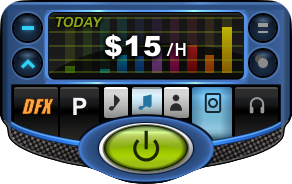
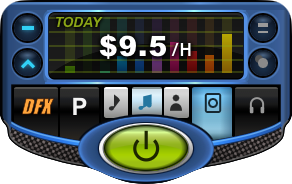
SPEND digits: always a raised $ above three sign-free cells
From $99.5 up the three-cell readout dropped its $ cell and read like a
count (158). The $ is now a small raised glyph above the SPEND digits,
the size of the Y labels' $, and cents read 0.03. Docs shots redone.

Changed region(s): [[0.339, 0.163, 0.6781, 0.3261], [0.7397, 0.1359, 0.8014, 0.1902], [0.339, 0.3533, 0.3699, 0.4076]]

diff --git a/src/dfx_agent_enhancer/ui/app.js b/src/dfx_agent_enhancer/ui/app.js
@@ -45,7 +45,7 @@
   };
   var DIG = {
     "0": "abcdef", "1": "bc", "2": "abdeg", "3": "abcdg", "4": "bcfg", "5": "acdfg", "6": "acdefg",
-    "7": "abc", "8": "abcdefg", "9": "abcdfg", "-": "g", " ": "", G: "acdef", $: "acdfg"
+    "7": "abc", "8": "abcdefg", "9": "abcdfg", "-": "g", " ": "", G: "acdef"
   };
   // letters the 7 segments cannot show, drawn as strokes in the same weight (designed on a 7 x 13 cell)
   var EXTRA = {
@@ -59,8 +59,6 @@
     var body = GHOST;
     if (EXTRA[ch]) body += '<g transform="scale(' + (W / 7).toFixed(4) + ' 1)">' + EXTRA[ch] + "</g>";
     else (DIG[ch] || "").split("").forEach(function (s) { body += '<polygon class="on" points="' + pts(SEG[s]) + '"/>'; });
-    // $: the S of the 7 segments with a stroke through it, reaching past the cell like a printed $
-    if (ch === "$") body += '<rect class="on" x="' + (W / 2 - 0.45).toFixed(2) + '" y="-1.1" width=".9" height="' + (H + 2.2) + '"/>';
     // a decimal point is a 1.9 px dot in a gap of its own (.drow svg.dp), so 6.6 never reads as 66
     if (dp) body += '<circle class="on" cx="' + (W + DPX) + '" cy="' + (H - 0.95) + '" r=".95"/>';
     return '<svg' + (dp ? ' class="dp"' : "") + ' viewBox="0 0 ' + W + " " + H + '">' + body + "</svg>";
@@ -86,14 +84,14 @@
     if (n < 1e8) return Math.floor(n / 1e6) + "M";
     return Math.min(9.9, Math.floor(n / 1e8) / 10).toFixed(1) + "G";     // a heavy week: 0.2G
   }
-  // dollars, also in three cells: $0, cents under a dollar ($.03, $.40: a little spend never shows
-  // as $0), $4.2, $42, then without the sign 420, 4.2k, 42k, 0.4M
+  // dollars in three cells, without a sign: the SPEND row draws a small raised $ above its digits
+  // (.drow small), like the $ on the Y labels, so 158 never reads as a count. 0, cents under a dollar
+  // (0.03, 0.40: a little spend never shows as 0), 4.2, 42, 420, 4.2k, 42k, 0.4M
   function fmtUsd(n) {
     if (n === null || n === undefined) return "--";
-    if (n === 0) return "$0";
-    if (n < 0.995) return "$." + ("0" + Math.max(1, Math.round(n * 100))).slice(-2);
-    if (n < 9.95) return "$" + n.toFixed(1);
-    if (n < 99.5) return "$" + Math.round(n);
+    if (n === 0) return "0";
+    if (n < 0.995) return Math.max(0.01, n).toFixed(2);
+    if (n < 9.95) return n.toFixed(1);
     if (n < 999.5) return String(Math.round(n));
     if (n < 9950) return (n / 1000).toFixed(1) + "k";
     if (n < 99500) return Math.round(n / 1000) + "k";
@@ -254,7 +252,7 @@
     row.dataset.tip = r.tip || "";
     var d = $("digits").children[n], text = loading ? "--" : (r.id === "spend" ? fmtUsd : fmtCount)(r.value);   // not ready, not zero
     d.dataset.tip = r.tip || "";
-    if (d.dataset.v !== text) { d.dataset.v = text; d.innerHTML = digitRow(text); }
+    if (d.dataset.v !== text) { d.dataset.v = text; d.innerHTML = digitRow(text) + (r.id === "spend" ? "<small>$</small>" : ""); }
   }
   function renderToggles(t) {
     t = t || {};

diff --git a/src/dfx_agent_enhancer/ui/app.css b/src/dfx_agent_enhancer/ui/app.css
@@ -207,6 +207,8 @@ button { font: inherit; border: 0; background: none; color: inherit; cursor: def
 .drow svg.dp { margin-right: 1.9px; }   /* room for the decimal point: a 3.1 px gap instead of 1.2 */
 .drow .ghost { fill: #000; opacity: .085; }
 .drow .on { fill: #000; }
+/* the SPEND row's unit: a raised $ in the gap above its digits, the size of the Y labels' $ */
+.drow small { position: absolute; left: 1.2px; top: -8.6px; font: 700 7.5px/7px Arial, Helvetica, sans-serif; color: #000; letter-spacing: 0; }
 
 /* ---------------- right-hand keys ---------------- */
 .keys { position: absolute; left: 176px; width: 76px; border: 1px solid #131313; border-radius: 4px; overflow: hidden; background: #131313;

diff --git a/NOTES.md b/NOTES.md
@@ -46,20 +46,24 @@ The user reported: dragging jumps the window to the top of the screen; TODAY sho
 - TODAY, decision: local midnight to now, always (`snapshot.geometry`). Picked over midnight-to-end-of-day because all 10 bars carry data instead of half of them being an empty future, the right edge is "now" as in every other window, and the deck and menu-bar icon (the same 10 bars) stay readable. The cost: the bars widen through the day (30 s at 00:05, 1.8 h at 18:00), so TODAY's bucket length is a float and not a whole number of 10 s bins; a bin goes to the bucket its start is in (`aggregate` uses `int((t - start) // length)`, clamped to the last bucket). It spans at least 10 bins, so in the first 100 s after midnight the window is [midnight, midnight + 100 s) and ends a little after now (`build` uses the real end of the current bin for the live numbers, not `a.end`). Bars and totals cover the same span (the `since` parameter is gone). X labels: `0:00`, then whole clock times with the first step of 5, 10, 15, 30 min, 1-6 h that gives at most 4 (`0:05 0:10 0:15` at 00:20, `4:00 8:00 12:00 16:00` at 16:40). Bar tooltips use seconds while a bar is under a minute long.
 - Spend, prices (`sources.PRICES`): Anthropic API list prices as (input, output, cache read) $/MTok, from platform.claude.com/docs/en/about-claude/pricing, read 2026-10-06 (the claude-api skill's model table agreed). Cache writes are 1.25x input for the 5-minute TTL and 2x for 1 hour on every model, so they are not stored. Model ids seen in the real transcripts (scanned read-only): claude-opus-5 (most of the spend), claude-opus-5-5, claude-opus-4-8, claude-fable-5-1, claude-fable-5, claude-sonnet-5, claude-sonnet-5-5, claude-haiku-4-5-20251001, `<synthetic>`. `sources.price()` matches `family-major[-minor]` anywhere in the id (dated, `[1m]`, Bedrock and Vertex forms work); an unknown version of a known family gets the family's newest price (opus 5.5, sonnet 5.5, haiku 4.5, fable/mythos 5.1) and is marked "(estimate)" in the model list; an id with no Claude family (a proxy model) costs $0 and is listed as "(no price)". `<synthetic>` is $0. Fast mode (`usage.speed == "fast"`) is 2x and `inference_geo == "us"` 1.1x on all token types; web searches (`server_tool_use.web_search_requests`) are $0.01 each. Real usage objects split cache writes (`cache_creation.ephemeral_1h_input_tokens` / `ephemeral_5m_input_tokens`; Claude Code writes 1-hour entries); without the split a write is priced as 5-minute.
 - Spend, counting (`FileState._assistant`): per `message.id` the per-field max of the usage tuple (input, 5m write, 1h write, read, output, searches) is remembered; each record adds the cost of the new max minus the cost of the old one, and its output delta, at its own timestamp. A streamed message therefore counts its input and cache once (they repeat on every record) and its output when produced. Bins gained a 5th field, `COST` ($, float), and `models` holds `[output tokens, $]` per bin.
-- Spend, display: one unit everywhere, $/h, so a label means the same in every window and matches the deck (the same reason v3 made tokens a rate). $/h reads as whole numbers where $/min would need decimals. On a heavy-use machine, busy periods run about $80-300/h at list prices (30 s bars: median about $90/h). Floor `SPEND_FLOOR` $20/h. Lime tab `Spend $/h` (`×10`, `×100` from $120/h, $1,200/h). The TOKENS row is SPEND (`ROW_FS` $50 / $500 / $5,000 / $20,000). Digits (`fmtUsd` in app.js): `$0`, `$0.4`, `$4.2`, `$42`, then without the sign `420`, `4.2k`, `42k` (three cells; `$` is the 7-segment S with a stroke through it, drawn past the cell). Bar tooltip: `$46.96 · $28/h` and the output tokens; `no spend`; `Cursor activity, no usage data`. SPEND row tooltip: the approximate cost at API list prices, output tokens, the subagent share and the model shares of the spend. Deck: `$40` `/H` (`spend_rate`: $ in the last 60 s as $/h, same 60 s logic as the old `token_rate`). Menu: `3 active · 3 open · $45/h`, `Today: $6.93 at API prices · ...`. The menu-bar title stays `N active`. The key pair is SPEND / SESSIONS (config value `spend`; a saved `tokens` becomes `spend`). The approximation is stated in the lime tab, SPEND row and deck tooltips; Cursor has no usage, which they say too.
+- Spend, display: one unit everywhere, $/h, so a label means the same in every window and matches the deck (the same reason v3 made tokens a rate). $/h reads as whole numbers where $/min would need decimals. On a heavy-use machine, busy periods run about $80-300/h at list prices (30 s bars: median about $90/h). Floor `SPEND_FLOOR` $20/h. Lime tab `Spend $/h` (`×10`, `×100` from $120/h, $1,200/h). The TOKENS row is SPEND (`ROW_FS` $50 / $500 / $5,000 / $20,000). Digits (`fmtUsd` in app.js): see "v4.2" below (a raised `$` above three sign-free cells). Bar tooltip: `$46.96 · $28/h` and the output tokens; `no spend`; `Cursor activity, no usage data`. SPEND row tooltip: the approximate cost at API list prices, output tokens, the subagent share and the model shares of the spend. Deck: `$40` `/H` (`spend_rate`: $ in the last 60 s as $/h, same 60 s logic as the old `token_rate`). Menu: `3 active · 3 open · $45/h`, `Today: $6.93 at API prices · ...`. The menu-bar title stays `N active`. The key pair is SPEND / SESSIONS (config value `spend`; a saved `tokens` becomes `spend`). The approximation is stated in the lime tab, SPEND row and deck tooltips; Cursor has no usage, which they say too.
 - Default window TODAY: `build()` and the controller default to `today`. Config `version` 2: on the first run of v4 a saved `window: now` (the old default, which nearly everyone had) moves to `today` once; a window picked after that, or any other saved window, is kept.
 - Docs shots: `tools/demo_data.py --at 16:40` writes a day of demo history ending at 16:40 today (sessions with work blocks through the day, 1-hour cache writes, a context that grows until it is compacted, Opus 5.5 with Sonnet 5.5 and Haiku 4.5 subagents). The offscreen renderer builds the snapshot with that `now`. On this Retina screen a WKWebView snapshot at width 4x points comes out 8x in pixels; it is downsampled to 2x with Lanczos (Pillow from the anaconda Python; the dev venv has no Pillow).
 
 ## v4.1 audit fixes (2026-10-06, version 0.2.0)
 
 - Decimal point: the 7-segment point was a 0.6 px dot in the 1.2 px gap between cells, invisible at normal size, so `$6.6` read as `$66` and `1.9k` tool calls as `19k` (the old docs/panel.png showed `19k`). It is now a 1.9 px dot with a gap of its own (see "Mapping onto the original's controls"). Whole dollars were considered and not taken: the 5 MIN window is mostly under $10, where the tenths matter, and the counts needed a readable point anyway.
-- Spend under $1 shows cents, `$.03`, `$.40` (at least `$.01` when there is any spend), instead of `$0.0` for anything under 5 cents.
+- Spend under $1 shows cents, `$.03`, `$.40` (at least `$.01` when there is any spend; written `0.03` under the raised `$` since v4.2), instead of `$0.0` for anything under 5 cents.
 - NOW is called 5 MIN on the key, the deck tag and the menu (`Last 5 min`), USER RULINGS 6 item 5. The config value stays `now`.
 - Drag grab offset: taken from the mouse-down event (`event.locationInWindow()`), not from `NSEvent.mouseLocation()` when the handler runs. With a press and an immediate move the old code left the window off by the distance the mouse had already moved: in a sweep of real CGEvent drags with no pause after the mouse-down the old code was off by 18 to 200 px, the new one by 0 in 24 of 24.
 - Display above the laptop: `setFrameOrigin:` on a titled window goes through `constrainFrameRect:toScreen:` (checked with a standalone window: a top 23 pt above the usable area came back at the usable area's top), which keeps the top under one screen's menu bar, so a drag up onto a display placed above would have stopped there. `panel._keep_on_any_screen` adds an override to pywebview's `WindowHost` that leaves a frame alone when its top edge is on any screen's visible frame (`panel.top_on_a_screen`) and calls AppKit's version otherwise. Installed before the first placement, so a saved position on such a display is restored too. On the single laptop screen nothing changes (a drag to y 0 still stops at y 33, under the menu bar). Not tried with a real second display: none was attached; rerun a drag test with one placed above the laptop before relying on it.
 - Prices: `sources.price` also reads the older version-first ids (`claude-3-5-haiku-20241022` is Haiku 3.5 at $0.80/$4, it was priced as Haiku 4.5) and treats a `-0` minor as the bare major (`claude-opus-4-0` is Opus 4 at $15/$75, it was priced as Opus 5.5). The major is 1-2 digits, so a date is never read as a version. None of these ids is in the real transcripts.
 - Version 0.2.0 (v4 and v4.1). The DMG was built with `scripts/build_release.sh` and smoke-tested from a scratch copy (fresh config opens in TODAY with $ readouts, 5 MIN key, drags exact, LaunchAgent written only to the `DFX_LAUNCH_AGENTS` scratch folder). Not pushed and no GitHub release made.
 - Known dead zone (not changed): each effect row's div (`.row`, x0-132) covers the chassis left of its toggle key, so a press at x 8-16 on a row does not start a drag; between rows it does.
+
+## v4.2 (2026-10-07): SPEND always shows its $
+
+- The digit column has three cells, so from $99.5 up the `$` cell was dropped and SPEND read `158`, like a count. The `$` is no longer a digit cell: the SPEND row always draws a small raised `$` (7.5 px bold Arial, the size of the Y labels' `$`, LCD black) in the 15 px gap above its digits, left-aligned at x1.2 of the column (`.drow small`), and `fmtUsd` returns the number alone: `0`, `0.03` (cents under $1, at least `0.01`), `6.6`, `42`, `158`, `1.2k`, `12k`, `--` while loading (the `$` stays). Cents are `0.03` and not `.03`: a leading point had no cell to ride on and rendered as a blank cell, `03`. The 7-segment `$` glyph is gone. Checked at $0.004, 0.03, 0.99, 6.6, 42, 99.6, 158, 999.6, 1,234, 12,345, 0 and loading.
 
 ## Window model
 
@@ -108,7 +112,7 @@ The user reported: dragging jumps the window to the top of the screen; TODAY sho
 - Axis row (original 40Hz / FREQUENCY BANDS / 14kHz), all olive, same font: time labels (v3). Window start at x25.5 (the gap before bar 1), now at x255.5; first label left-aligned at x19, last right-aligned at x254.
 - Y labels: real values in the original label font and place (right edge x28), at y76, 95, 114, 133.
 - Effect rows: the square glossy toggle key keeps the original power glyph; the row LED is a thin strip across the top of the key (green/amber/red/unlit), the way DFX 9 skins showed an enabled effect. The original slider thumb sits at the end of the fill. Toggles and sliders are inert but hover and press like the real thing.
-- Digit column: the original box (x148-170, 23x141, two-tone blue LCD) and full-length meter tracks. The native capture shows upright 7-segment digits. Each row has up to three narrow upright cells (5.4x13) with ghost segments, centred on the column, so values are formatted to 3 cells: `fmtCount` gives 7, 412, 1.0k, 84k, 0.8M, 12M, 0.2G; `fmtUsd` gives $0, $.03 (cents under $1), $4.2, $42, 420, 4.2k, 42k; `--` when there is no usage data. A decimal point is a dot of radius 0.95 px drawn past its cell, and a cell with one gets 1.9 px more room on its right (`.drow svg.dp`), so three cells and a point take 20.5 of the column's 21 px. Before v4.1 it was a 0.6 px dot in the 1.2 px cell gap and `$6.6` read as `$66`, `1.9k` as `19k`; the faint ghost point on every cell went with it.
+- Digit column: the original box (x148-170, 23x141, two-tone blue LCD) and full-length meter tracks. The native capture shows upright 7-segment digits. Each row has up to three narrow upright cells (5.4x13) with ghost segments, centred on the column, so values are formatted to 3 cells: `fmtCount` gives 7, 412, 1.0k, 84k, 0.8M, 12M, 0.2G; `fmtUsd` gives 0, 0.03 (cents under $1, at least 0.01), 4.2, 42, 420, 4.2k, 42k under a raised `$` (v4.2); `--` when there is no usage data. A decimal point is a dot of radius 0.95 px drawn past its cell, and a cell with one gets 1.9 px more room on its right (`.drow svg.dp`), so three cells and a point take 20.5 of the column's 21 px. Before v4.1 it was a 0.6 px dot in the 1.2 px cell gap and `$6.6` read as `$66`, `1.9k` as `19k`; the faint ghost point on every cell went with it.
 - Right column group 1 (originally 3 keys of 24px): 5 MIN (NOW before v4.1), 1H, TODAY, WEEK as 4 keys of 17px in the same outer box, selected style = MUSIC TYPE II. Group 2 (originally the SPEAKERS/HEADPHONES radio): the SPEND/SESSIONS spectrum radio (TOKENS/SESSIONS before v4), selected = the SPEAKERS look, other = HEADPHONES look.
 - DOCK is the oval; `v`, `-`, MENU and the menu bar do the rest. PRESETS is CHIME and SKINS is ON TOP (v3 toggles).
 - Mini deck: left domes hide (`-`) and expand (`^`), top-right dome opens the menu, bottom-right dome and the key row are inert. The display shows exactly the rack's graph (metric, window, scale) under its current value (v3), with the window tag in its top-left corner.
@@ -243,7 +247,7 @@ The time window is picked with 5 MIN (the last 5 minutes; config value `now`), 1
 | LEDs | green: active in the last 90 s (ERRORS: none in the window). Amber: some in the window, idle now (SESSIONS: open but none working; ERRORS: none in the last 15 min). Red: an error in the last 15 min. Unlit: nothing |
 | Deck | the rack's graph, exactly, under its current value: `$40/H` (spend in the last 60 s, as $/h), `3 ACTIVE`, `IDLE`, or `NO DATA` (spend with no usage source). The olive tag in its corner names the graph's window: `5 MIN`, `1H`, `TODAY`, `WEEK` |
 
-Sliders are log-scaled and the 7-segment digits, centred in the blue column, show the value (`7`, `412`, `1.0k`, `84k`, `0.8M`, `12M`, `0.2G`; spend `$.03`, `$4.2`, `$42`, `420`, `4.2k`; a decimal point is a clear dot in a gap of its own). While the shown window is still being read (the first launch can take up to ~30 s for WEEK on a busy machine) the plot says "Loading…" and the digits show `--`. TODAY's bars and numbers both count from midnight.
+Sliders are log-scaled and the 7-segment digits, centred in the blue column, show the value (`7`, `412`, `1.0k`, `84k`, `0.8M`, `12M`, `0.2G`; spend `0.03`, `4.2`, `42`, `420`, `4.2k` under a small raised `$`; a decimal point is a clear dot in a gap of its own). While the shown window is still being read (the first launch can take up to ~30 s for WEEK on a busy machine) the plot says "Loading…" and the digits show `--`. TODAY's bars and numbers both count from midnight.
 
 "Working now" (active) for Claude Code means any of its transcripts (main or subagent) got a timestamped message in the last 90 s, or its `sessions/<pid>.json` says busy and the session wrote a message or changed status in the last 30 minutes (Claude Code keeps "busy" for hours while a session waits, so busy alone is not enough). For Cursor it means new transcript bytes in the last 90 s, or Cursor busy on CPU with a transcript touched in the last 10 minutes.
 
@@ -299,6 +303,6 @@ See the sections above for decisions, the window model, threading, the real tran
 - The GitHub Pages site is `docs/` on main: `docs/index.html` (single static file, inline CSS/JS, Google Fonts Geist, Geist Mono and Instrument Serif, no build step), `favicon.svg`, `apple-touch-icon.png`, `og.png` (1200x630 social card), plus the screenshots README also uses.
 - The user asked to "use https://vgpu.sh/". It is Vercel Labs' landing page for vgpu (a WebGPU library), not a page builder, so it was used as a style reference: pure black, Geist + a serif wordmark, left-aligned hero over a full-bleed animated canvas, a minimal tabbed install block with a fading hairline, mono uppercase card headers, and a source-to-outputs connector diagram. Our hero canvas draws the rack's 10 spectrum colours as bars on a 96x54 canvas, blurred by CSS (static under prefers-reduced-motion).
 - The star count comes from `api.github.com/repos/orenyomtov/dfx-agent-enhancer` and is hidden on failure or when it is 0.
-- Docs screenshots (2026-10-06, v0.2.0): `python3 tools/demo_data.py DIR --day` (no `--at`: the history ends at the real now, which the live app uses), then `tools/shoot.py` against it. The screen is Retina now, so `shoot.py` writes `panel.png` 544x872 and `mini.png` 292x184 (= `docs/deck.png`) directly, transparent outside the rack. Take them late in the evening (around 22:00-23:00): TODAY runs from midnight, so only then do 9 of the 10 bars carry the day (2:00-4:30 stays empty). The day costs about $150, so the SPEND digits read `150` without the sign (`$` shows only below $99.5); about $85 would keep it, but then the bars only reach about a third of the $20/h floor scale. The silver tab's `N open` comes from the real process list, so it varies. `docs/menubar.png` comes from `menubar_doc.py` (scratchpad `/private/tmp/claude-501/v4/`, also in `/private/tmp/claude-501/shots/`) fed with a snapshot JSON from the offscreen `render.py`.
+- Docs screenshots (2026-10-06, v0.2.0): `python3 tools/demo_data.py DIR --day` (no `--at`: the history ends at the real now, which the live app uses), then `tools/shoot.py` against it. The screen is Retina now, so `shoot.py` writes `panel.png` 544x872 and `mini.png` 292x184 (= `docs/deck.png`) directly, transparent outside the rack. Take them late in the evening (around 22:00-23:00): TODAY runs from midnight, so only then do 9 of the 10 bars carry the day (2:00-4:30 stays empty). The day costs about $150 (SPEND reads `$` over `146`). After midnight TODAY is empty, so the v4.2 shots ran `demo_data.py --day` and `shoot.py` under a wrapper that shifts `time.time()` back to 22:40 of the previous day (`FAKE_NOW`; scratch `/private/tmp/claude-501/dfx-fix/shift.py`, not kept). The silver tab's `N open` comes from the real process list, so it varies. `docs/menubar.png` comes from `menubar_doc.py` (scratchpad `/private/tmp/claude-501/v4/`, also in `/private/tmp/claude-501/shots/`) fed with a snapshot JSON from the offscreen `render.py`.
 - `og.png` and `apple-touch-icon.png` are rendered with headless Chrome from `tools/og/og.html` (1200x630) and `tools/og/icon.html` (180x180), which load `panel.png` and `favicon.svg` from the same folder: copy `docs/panel.png` and `docs/favicon.svg` next to them first (and delete the copies after; they are not tracked). Re-render if the panel screenshot changes. Headless Chrome writes the screenshot and then often does not exit: start it in the background, wait for the file, then kill it by its `--user-data-dir`.
 - Site (docs/index.html): content must be visible without animations. Entrance (`.rise`) and scroll reveal (`.reveal.pre`) only use transform, never opacity, because headless Chrome and occluded windows stall animations and left the hero invisible. Reveal only applies to elements that start below the fold. On mobile `.hero-copy` is `display: contents` so the rack can sit between the install block and the CTAs.
